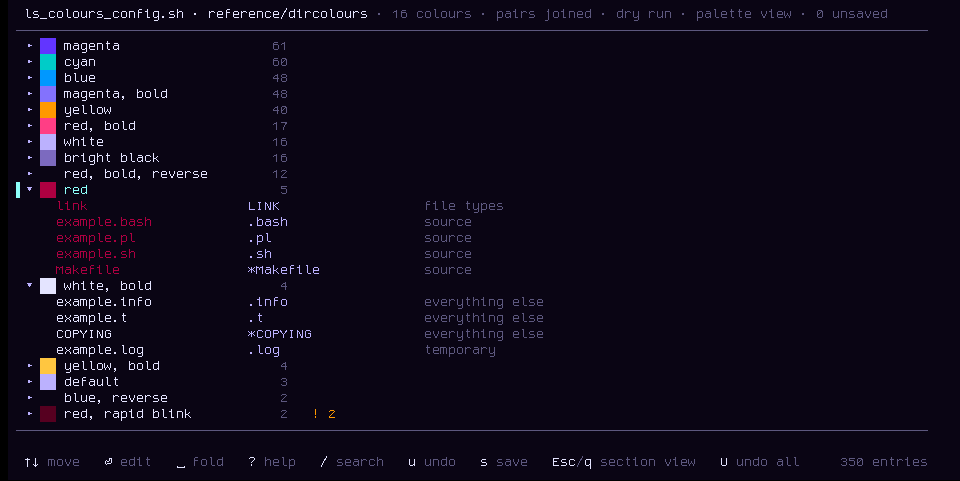
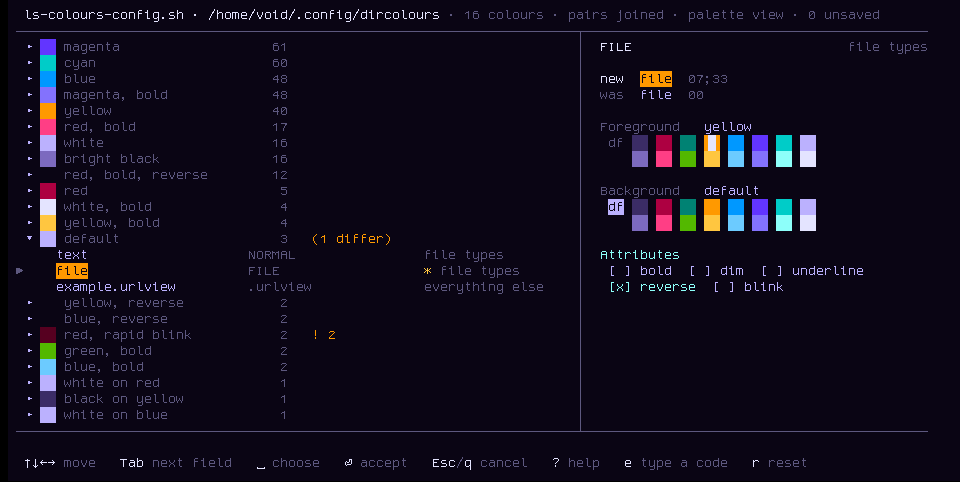
Updated screenshots of the section and palette views; dropped the editor screenshot

diff --git a/README.md b/README.md
@@ -2,11 +2,6 @@
 
 My terminal tool for the file that decides the colours of `ls`: it previews, checks, repairs and edits a GNU `dircolors` configuration. One bash script, no dependencies beyond bash and GNU coreutils.
 
-## The editor
-<details close><summary>(Click to expand)</summary>
-<br>
-<p align="center"><img src="docs/edit-view.png" alt="The editor with the picker beside the list: the file types section unfolded, each entry in its colour with the colour in words, and on the right the new and old sample, the foreground and background palettes and the attribute switches"></p></details>
-
 ## Select from list/categories
 <details close><summary>(Click to expand)</summary>
 <br>
